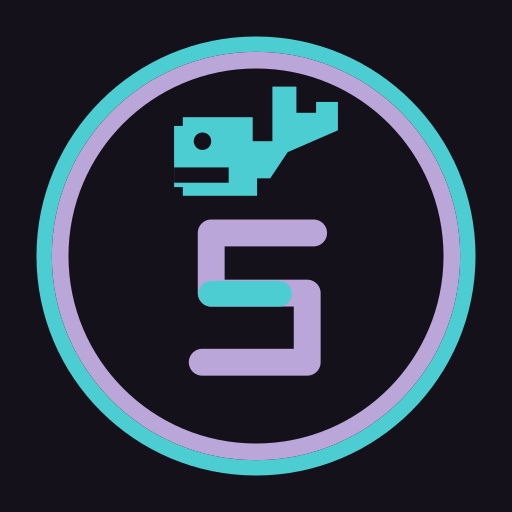
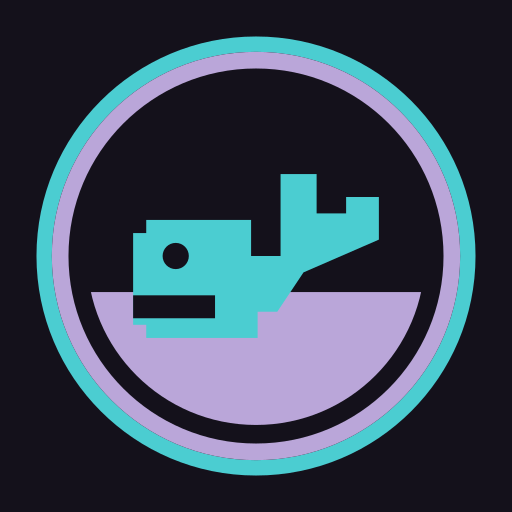
feat(assets): make the whale-only mark canonical
The whale now carries the emblem alone at ring scale, roughly double its
size in the lockup, and the freed space goes to the pastel purple: the
whale sits half submerged in a lilac sea.

The water is clipped to r 132 rather than the ring interior. Filling to
the interior makes the lilac water merge with the lilac ring band and the
lower half of the ring stops reading. The whale is sized to 192 wide to
keep 22px off the water's curved edge.

The previous S lockup is kept as sirens-deep-lockup for contexts where the
mark should sit in an obvious row with its siblings.

Changed region(s): [[0.1562, 0.1562, 0.8438, 0.8438]]

diff --git a/docs/assets.md b/docs/assets.md
@@ -10,8 +10,14 @@ LCARS, Star Trek, and the referenced place-names (Vandor, D'Arsay, Morska, Proxi
 
 ## sirens-deep.svg, sirens-deep.png
 
-Mark for the `sirens-deep` deployment. `sirens-deep.svg` is the source, `sirens-deep.png` a 512px render for avatar surfaces.
+Canonical mark for the `sirens-deep` deployment. `sirens-deep.svg` is the source, `sirens-deep.png` a 512px render for avatar surfaces.
 
-Built as a sibling of the coilyco org marks. The ring, the S glyph, and the ink / mint / lilac palette are measured from those avatars rather than approximated, so the geometry matches: mint ring r 165.5 w 12, lilac ring r 153 w 13, S stroke w 21 with round caps and joins.
+A sibling of the coilyco org marks. The ring and the ink / mint / lilac palette are measured from those avatars rather than approximated, so the geometry matches: mint ring r 165.5 w 12, lilac ring r 153 w 13. The whale carries the emblem alone, with no S, which is what makes this the canonical form rather than the lockup below.
 
-The whale emblem nods at DeepSeek, which `agent/sirens-deep.yaml` selects. It is not a trace of their mark. Theirs is a soft organic silhouette; this one is redrawn as a stepped, blocked polygon in the coilyco idiom, and only the gesture is shared - mass low and left, fluke thrown up and right, a single eye dot. The DeepSeek name and logo are property of DeepSeek.
+The whale nods at DeepSeek, which `agent/sirens-deep.yaml` selects. It is not a trace of their mark. Theirs is a soft organic silhouette; this one is redrawn as a stepped, blocked polygon in the coilyco idiom, and only the gesture is shared - mass low and left, fluke thrown up and right, a single eye dot. Every edge is horizontal or vertical apart from the two running from the fluke down to the belly. The DeepSeek name and logo are property of DeepSeek.
+
+**The water inset is load bearing.** The lilac sea is clipped to a disc of r 132, not to the ring interior at r 146.5. That gap keeps the water off the lilac ring band. Filling to the ring interior makes the two lilacs merge and the lower half of the ring stops reading as a ring. Keep the whale off that boundary too, currently by 22px, or it hugs the water's curved edge.
+
+## sirens-deep-lockup.svg, sirens-deep-lockup.png
+
+Secondary lockup, the same whale over the coilyco S. Matches the org avatars most closely, since they all carry the S, so reach for it where the mark needs to sit in an obvious row with its siblings. The S is one round-capped stroke of w 21 following `M245 182 H165 V229 H240 V283 H158`, with an offset mint bar across its waist.
